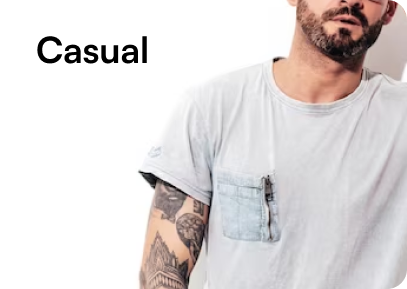
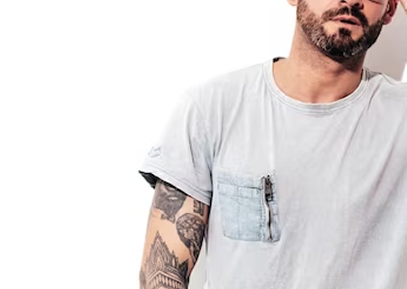
init

diff --git a/htdocs/assets/css/main.min.css b/htdocs/assets/css/main.min.css
@@ -1,1 +1,1 @@
-a,article,aside,b,body,caption,dd,div,dl,dt,em,figcaption,figure,footer,form,h1,h2,h3,h4,h5,h6,header,html,i,iframe,img,label,li,nav,ol,p,pre,section,small,span,strong,sub,sup,table,tbody,td,tfoot,th,thead,tr,ul,var,video{margin:0;padding:0;border:0;outline:0;vertical-align:baseline;background:0 0;box-sizing:border-box}body,html{-webkit-text-size-adjust:100%;-moz-text-size-adjust:100%;text-size-adjust:100%}dl,dl dd p,dl dd ul,dl h2,dl h3,dl ol,dl table,h1,h2,h3,h4,h5,h6,input,ol,ol li dl,ol li p,ol ul,p,table,table p,table table,table ul,textarea,ul,ul li dl,ul li p,ul ol,ul table,ul ul{font-size:100%}article,aside,details,figcaption,footer,header,nav,section{display:block}nav ul,ol li,ul li{list-style:none}table{border-collapse:collapse;border-spacing:0;line-height:1.4}em,strong{font-weight:700}input,select{vertical-align:middle}button:focus{outline:0}a:hover,button:hover{opacity:.7;cursor:pointer}button{line-height:0}img{max-width:100%;height:auto}a,a:link,a:visited{color:inherit;text-decoration:none;cursor:pointer}input:focus-visible{outline:0;box-shadow:none;border-color:inherit}figure{margin:0;padding:0}small{all:unset}@font-face{font-family:Satoshi;src:url(../fonts/satoshi/Satoshi-Regular.woff2) format("woff2"),url(../fonts/satoshi/Satoshi-Regular.woff) format("woff"),url(../fonts/satoshi/Satoshi-Regular.ttf) format("truetype");font-weight:400;font-style:normal;font-display:swap}@font-face{font-family:Satoshi;src:url(../fonts/satoshi/Satoshi-Medium.woff2) format("woff2"),url(../fonts/satoshi/Satoshi-Medium.woff) format("woff"),url(../fonts/satoshi/Satoshi-Medium.ttf) format("truetype");font-weight:500;font-style:normal;font-display:swap}@font-face{font-family:Satoshi;src:url(../fonts/satoshi/Satoshi-Bold.woff2) format("woff2"),url(../fonts/satoshi/Satoshi-Bold.woff) format("woff"),url(../fonts/satoshi/Satoshi-Bold.ttf) format("truetype");font-weight:700;font-style:normal;font-display:swap}@font-face{font-family:"Integral CF";src:url(../fonts/integral-cf/Fontspring-DEMO-integralcf-bold.otf) format("opentype");font-weight:700;font-style:normal;font-display:swap}body{color:#000;font-family:Satoshi,sans-serif;font-size:16px;line-height:1.247;font-weight:400}h1,h2{font-family:"Integral CF",sans-serif;font-weight:700}.btn{display:inline-block;background-color:#000;color:#fff!important;font-weight:500;line-height:1.375;padding:15px 67.5px;border-radius:62px;transition:background-color .3s;text-decoration:none}.btn:hover{opacity:.7;background-color:#333}@media (min-width:550px) and (max-width:767px){.btn{width:30%!important}}.inner{max-width:1240px;margin:0 auto}@media (min-width:1280px){.inner{padding-left:0;padding-right:0}}@media (max-width:1279px) and (min-width:768px){.inner{padding-left:32px;padding-right:32px}}@media (max-width:768px){.btn{width:100%;text-align:center;font-size:16px}.inner{padding-left:4.102564102%;padding-right:4.102564102%}}.signup{padding:11px 0;width:100%;display:flex;flex-direction:row;align-items:center;justify-content:center;background-color:#000;color:#fff}.signup__wrap{display:flex;align-items:center;justify-content:center;flex:1}.signup__text{line-height:1.3571428571;font-size:14px}@media (max-width:768px){.signup{padding:9px 0}.signup__text{font-size:12px}}.signup__link{display:inline-block;color:#fff;text-decoration:underline!important;font-weight:500}.signup__link:hover{opacity:.8}.signup__content{display:flex;justify-content:space-between;align-items:center;width:100%}.signup__close{background:0 0;border:none;cursor:pointer;padding:0;height:20px}.signup__close:hover{opacity:.8}@media (max-width:768px){.signup__close{display:none}}.header{padding-top:24px;padding-bottom:24px}@media screen and (max-width:768pxpx){.header{padding:calc(.0390625 * 100%) calc(.03125 * 100%)}}@media screen and (max-width:390pxpx){.header{padding:calc(.0512820513 * 100%) calc(.041025641 * 100%)}}.header__wrapper{display:flex;align-items:center}.header__menu-mobile{display:none;background:0 0;border:none;padding:0;margin-right:calc(.0446927374 * 100%);cursor:pointer}.header__menu-mobile:hover{opacity:.7}.header__logo{font-family:"Integral CF",sans-serif;font-weight:700;font-size:32px;line-height:.6875;color:#000}@media (max-width:768px){.header__wrapper{align-items:self-start}.header__menu-mobile{display:block}.header__logo{font-size:25px;line-height:.72}}.header__menu{margin-top:8px;margin-left:calc(.0322580645 * 100%);display:flex;list-style:none;gap:24px}@media (max-width:768px){.header__menu{display:none;margin-top:0}}@media (min-width:769px) and (max-width:1239px){.header__menu{gap:7.476635514%}}.header__menu-item{display:flex;align-items:center;gap:4px;transition:color .3s}.header__menu-item:hover{cursor:pointer;opacity:.7}.header__menu-link{color:#000;text-decoration:none;font-size:16px;line-height:1.375}.header__search{position:relative;display:flex;align-items:center;flex:1;border-radius:62px;background-color:#f0f0f0;padding:calc(.0096774194 * 100%) calc(.0129032258 * 100%);margin:0 calc(.0322580645 * 100%)}.header__search-icon{height:24px}.header__search-input{text-overflow:ellipsis;background-color:#f0f0f0;border:none;font-size:16px;padding:0;line-height:1;flex:1;font-family:Satoshi,sans-serif;min-width:0;margin-left:calc(.0208695652 * 100%)}.header__search-input::-moz-placeholder{color:rgba(0,0,0,.4)}.header__search-input::placeholder{color:rgba(0,0,0,.4)}.header__search-input:focus{outline:0}.header__search-mobile{display:none}@media (max-width:768px){.header__search{display:none}.header__search-mobile{display:flex;align-items:center;justify-content:center;color:#000}.header__search-mobile:hover{opacity:.7}}.header__actions-redirect{display:flex;align-items:center;margin-left:auto;gap:14px}.header__cart,.header__profile{display:flex;align-items:center;justify-content:center;color:#000}.header__cart:hover,.header__profile:hover{opacity:.7}.baner{background-color:#f2f0f1}.baner__background{padding:103px 0 116px;max-width:1440px;margin:0 auto;background-image:url(../images/hero.jpg);background-size:cover;background-position:center;background-repeat:no-repeat;position:relative}@media (max-width:768px){.header__actions-redirect{gap:12px}.baner .inner{padding-left:0;padding-right:0}.baner__background{padding:40px 4.102564102% 0;background-image:none}}.baner__background-mobile{background-position:bottom;background-repeat:no-repeat;display:none;width:100%;max-width:390px;margin:0 auto;aspect-ratio:390/448;background-image:url(../images/bg-sp.png);background-size:contain}.baner__content{flex:1}.baner__title{font-size:64px;line-height:1;margin-bottom:32px}@media (max-width:768px){.baner__background-mobile{display:block;margin-top:-6px;position:relative}.baner__title{margin-bottom:20px;font-size:36px;line-height:1.0588235294}}.baner__description{margin-bottom:32px;color:rgba(0,0,0,.6);line-height:1.375;max-width:calc(.439516129 * 100%);font-size:16px}.baner .btn{margin-bottom:48px;padding:15px calc(.0544354839 * 100%)}.baner__wrap-info{display:flex;position:relative;z-index:1}@media (max-width:768px){.baner__description{font-size:14px;max-width:100%;margin-bottom:24px;line-height:1.4285714286}.baner .btn{margin-bottom:22px}.baner__wrap-info{flex-wrap:wrap;justify-content:center}}.baner__divider{width:1px;background-color:rgba(0,0,0,.1);margin:0 calc(.0258064516 * 100%)}.baner__info{display:flex;flex-direction:column}.baner__info-number{font-size:40px;font-weight:700;line-height:1.35;color:#000}@media (max-width:768px){.baner__divider{margin:0 calc(.0768156425 * 100%)}.baner__divider:nth-child(4){display:none}.baner__info-number{line-height:1.5;font-size:24px}}.baner__info-text{font-size:16px;line-height:1.375;color:rgba(0,0,0,.6);margin-top:-2px}.baner__star{position:absolute;z-index:1}.baner__star-desktop{display:block}.baner__star-mobile{display:none}.baner__star--1{width:calc(.0722222222 * 100%);top:calc(.1297134238 * 100%);right:calc(.05625 * 100%)}@media (max-width:768px){.baner__info-text{font-size:12px;margin-top:-6px;line-height:1.8333333333}.baner__info:nth-child(5){width:100%;text-align:center;margin-top:12px}.baner__star-desktop{display:none}.baner__star-mobile{display:block}.baner__star--1{width:calc(.1948717949 * 100%);top:calc(.0892857143 * 100%);right:calc(.0538461538 * 100%)}}.baner__star--2{width:calc(.0388888889 * 100%);bottom:calc(.467571644 * 100%);right:calc(.4402777778 * 100%)}.brands{background-color:#000;padding:44px 0}.brands__row{display:flex;align-items:center;justify-content:space-between}.brands__row-mobile{display:none}@media (max-width:768px){.baner__star--2{width:calc(.1128205128 * 100%);top:calc(.3058035714 * 100%);left:calc(.0692307692 * 100%);right:0}.brands{padding:39px 0}.brands__row{justify-content:center}.brands__row-mobile{display:flex;padding:0 calc(.0666666667 * 100%);margin-top:30px}}.brands__item{transition:opacity .3s;margin:0 calc(.0166666667 * 100%)}.brands__item:first-child{margin-left:0}.brands__item:last-child{margin-right:0}.brands__item:hover{cursor:pointer;opacity:.7}@media (max-width:768px){.brands__item{margin:0 calc(.0354166667 * 100%)}.brands__item:nth-child(3){margin-right:0}.brands__item:nth-child(4),.brands__item:nth-child(5){display:none}.products .inner{padding-right:0}}.products__border{margin-top:64px}@media (max-width:768px){.products__border{margin-top:0;padding-top:40px;margin-left:4.102564102%;margin-right:4.102564102%;border-top:1px solid rgba(0,0,0,.1019607843)}}.products__stat-text{line-height:1.3571428571}.products__stat-text small{color:rgba(0,0,0,.6)}@media (min-width:1240px){.products__stat-text{margin-left:13px}}@media (min-width:769px) and (max-width:1239px){.products__stat-text{margin-left:4.406779661%}}@media (max-width:768px){.products__stat-text{font-size:12px!important;line-height:1.3333333333}}.products__price-discount{font-weight:700;font-size:24px;line-height:1.3333333333;color:rgba(0,0,0,.4);text-decoration:line-through}@media (max-width:768px){.products__price-discount{font-size:20px;line-height:1.35}}.products__price-percent{display:flex;align-items:center;background-color:rgba(255,51,51,.1019607843);padding:6px 13px;font-weight:500;font-size:12px;line-height:1.3333333333;color:#f33;border-radius:62px}@media (max-width:768px){.products__price-percent{font-size:10px;line-height:1;padding:3px 8px;height:21px}}.products__stat-text{font-size:14px;margin-left:13px;color:#000}.products__selling{padding-top:55px;padding-bottom:80px}@media (max-width:768px){.products__selling{padding-top:32px;padding-bottom:50px}}.products__selling .products__list{margin-top:0}.products__arrivals{padding-top:72px;padding-bottom:64px;border-bottom:1px solid rgba(0,0,0,.1019607843)}.products__item{text-decoration:none}.products__item figure img{display:block}.products__items-clothes{width:25%;box-sizing:border-box}.products__list{margin-top:55px;display:flex}@media (max-width:768px){.products__arrivals{padding-top:50px;padding-bottom:40px;border-bottom:unset}.products__items-clothes{width:50%}.products__list{margin-top:32px}}.products__name{text-transform:capitalize;margin-top:16px;margin-bottom:8px;font-family:Satoshi,sans-serif;font-weight:700;color:#000;font-size:20px;line-height:1.35}@media (max-width:768px){.products__name{font-size:16px;line-height:1.375;margin-top:10px;margin-bottom:4px}}@media (min-width:769px) and (max-width:1024px){.products__name{min-height:50px}}.products_price{align-items:center;display:flex;margin-top:8px;font-family:Satoshi,sans-serif;font-weight:700;font-size:24px;color:#000;line-height:1.3333333333;gap:10px;flex-wrap:wrap}@media (max-width:768px){.products_price{margin-top:4px;font-size:20px;line-height:1.35}}.products__view-all{border:1px solid rgba(0,0,0,.1019607843);font-family:Satoshi,sans-serif;font-weight:500;font-size:16px;color:#000;padding-left:calc(.064516129 * 100%);padding-right:calc(.064516129 * 100%);padding-top:15px;padding-bottom:15px;border-radius:62px;background-color:#fff;display:block;margin:36px auto 0;line-height:1.375}@media (min-width:550px) and (max-width:767px){.products__view-all{width:30%!important;margin-right:auto!important}}.browes__bg{background-color:#f0f0f0;border-radius:40px;padding:70px calc(.0516129032 * 100%) 76px}.browes__row{display:flex;gap:calc(.0161290323 * 100%)}@media (min-width:769px){.browes__row{height:289px}}@media (max-width:768px){.products__view-all{width:95.897435898%;margin-top:24px;font-size:14px;line-height:1.3571428571;margin-right:4.102564102%}.browes__bg{padding:40px calc(.0670391061 * 100%) 27px}.browes__row{display:flex;flex-direction:column}.browes__row figure{width:100%;height:190px}.browes__row img{width:100%}}.browes__row img{height:100%}.browes__row:first-of-type{margin-bottom:20px}.browes__title{margin-bottom:64px}.footer{margin-top:80px}@media (max-width:768px){.browes__title{margin-bottom:28px}.footer{margin-top:50px}.footer__menu-items-list{padding-top:24px}}.footer__social{display:flex;align-items:center;gap:12px;margin-top:35px}@media (max-width:768px){.footer__social{margin-top:20px}}.footer__info-text{margin-top:25px;font-size:14px;line-height:1.57;color:rgba(0,0,0,.6)}.footer__info{margin-bottom:15px;max-width:248px}.footer__logo{font-size:33px}.footer__subscribe{display:flex;align-items:center;justify-content:space-between;background-color:#000;border-radius:20px;padding:36px calc(.0516129032 * 100%)}@media (max-width:768px){.footer__info-text{margin-top:14px;line-height:1.4285714286}.footer__info{max-width:100%;margin-bottom:0}.footer__logo{font-size:29px}.footer__subscribe{flex-direction:column;padding:32px calc(.0670391061 * 100%) 28px}}.footer__subscribe-text{font-family:"Integral CF",sans-serif;font-weight:700;font-size:40px;line-height:1.125;color:#fff}@media (max-width:768px){.footer__subscribe-text{font-size:32px;line-height:1.09375}}@media (min-width:1240px){.footer__subscribe-text{width:calc(.4955035971 * 100%)}}@media (min-width:769px) and (max-width:1239px){.footer__subscribe-text{width:49.550359712%}}.footer__email-input{background-color:#fff;border:none;padding:0;flex:1;font-family:Satoshi,sans-serif;min-width:0;margin-left:12px;font-size:16px;text-overflow:ellipsis;line-height:1.375}.footer__email-input::-moz-placeholder{font-size:16px;line-height:1.375;color:rgba(0,0,0,.4)}.footer__email-input::placeholder{font-size:16px;line-height:1.375;color:rgba(0,0,0,.4)}.footer__first{position:relative}.footer__first-background{background-color:#f0f0f0;position:absolute;bottom:0;height:50%;width:100%;z-index:-1}.footer__second{padding-top:50px;background-color:#f0f0f0;border-bottom:1px solid rgba(0,0,0,.1019607843)}@media (max-width:768px){.footer__email-input::-moz-placeholder{font-size:14px;line-height:1.3571428571}.footer__email-input::placeholder{font-size:14px;line-height:1.3571428571}.footer__second{padding-top:32px;padding-bottom:77px}}.footer__email{max-height:48px;position:relative;display:flex;align-items:center;flex:1;border-radius:62px;background-color:#fff;padding:12px 16px}@media (min-width:769px){.footer__email{width:calc(.6221033868 * 100%)}}.footer__subscribe-button{margin-top:14px;font-weight:500;font-size:16px;color:#000;height:46px;border-radius:62px;line-height:1.375}@media (max-width:768px){.footer__subscribe-button{font-size:14px;line-height:1.3571428571}}@media (min-width:1240px){.footer__subscribe-button{width:349px}}@media (min-width:769px) and (max-width:1239px){.footer__subscribe-button{width:62.21033868%}}.footer__items{font-size:16px;line-height:1.1875;color:rgba(0,0,0,.6)}.footer__right{flex-direction:column;display:flex;align-items:end}@media (max-width:768px){.footer__items{font-size:14px;line-height:1.3571428571}.footer__right{width:100%;margin-top:32px;align-items:unset}.footer__copy{margin-bottom:16px}}@media (min-width:1240px){.footer__right{width:calc(.5044964029 * 100%)}.footer__wrap-menu-list{gap:113px}}@media (min-width:769px) and (max-width:1239px){.footer__right{width:50.449640288%}}.footer__copy{color:rgba(0,0,0,.6);font-size:14px}.footer__copy-payment{margin-top:25px;margin-bottom:82px;display:flex;justify-content:space-between;align-items:center}@media (max-width:768px){.footer__copy-payment{margin-top:16px;margin-bottom:0;display:flex;flex-direction:column}}.footer__payment{display:flex}.footer__wrap-all{display:flex;flex-wrap:wrap;justify-content:space-between;padding-bottom:50px;border-bottom:1px solid rgba(0,0,0,.1019607843)}.footer__wrap-menu-list{width:72.419354838%;display:flex;justify-content:space-between}@media (min-width:769px) and (max-width:1239px){.footer__wrap-menu-list{gap:13.363028953%}}.footer__menu-items-text{font-weight:500;font-size:16px;line-height:1.125;letter-spacing:3px;text-transform:uppercase;margin-bottom:26px}@media (max-width:768px){.footer__wrap-all{padding-bottom:40px}.footer__wrap-menu-list{width:100%;display:grid;grid-template-columns:repeat(2,minmax(0,1fr))}.footer__menu-items-text{font-size:14px;line-height:1.2857142857;margin-bottom:16px}}.footer__list-items{display:flex;flex-direction:column;gap:25px}.reviews{display:flex;gap:20px}.reviews__feedback{font-size:16px;line-height:1.375;color:rgba(0,0,0,.6);margin-top:12px}@media (max-width:768px){.reviews{gap:10px}.reviews__feedback{font-size:14px;line-height:1.4285714286;margin-top:8px}.reviews__list{padding-left:4.102564102%;padding-right:4.102564102%}}.reviews__next-pre{display:flex;gap:16px}.reviews__next-pre button{all:unset;display:inline-block;cursor:pointer}.reviews__header{margin-bottom:40px;margin-top:80px;display:flex;justify-content:space-between;align-items:center}.reviews__item{border:1px solid rgba(0,0,0,.1019607843);border-radius:20px;min-width:400px;padding:28px 32px 50px}@media (max-width:768px){.reviews__header{margin-bottom:24px;margin-top:50px}.reviews__item{padding:24px!important;min-width:auto}}.reviews__name{display:flex;align-items:center;font-weight:700;font-size:20px;line-height:1.1;color:#000;gap:6px;margin-top:15px}.reviews__title{text-align:left!important}.title{text-align:center;font-size:48px;line-height:1.2083333333;text-transform:capitalize}@media (max-width:768px){.reviews__name{margin-top:12px}.title{font-size:32px;line-height:1.1875}}.checked{color:#ffc633}
+a,article,aside,b,body,caption,dd,div,dl,dt,em,figcaption,figure,footer,form,h1,h2,h3,h4,h5,h6,header,html,i,iframe,img,label,li,nav,ol,p,pre,section,small,span,strong,sub,sup,table,tbody,td,tfoot,th,thead,tr,ul,var,video{margin:0;padding:0;border:0;outline:0;vertical-align:baseline;background:0 0;box-sizing:border-box}body,html{-webkit-text-size-adjust:100%;-moz-text-size-adjust:100%;text-size-adjust:100%}dl,dl dd p,dl dd ul,dl h2,dl h3,dl ol,dl table,h1,h2,h3,h4,h5,h6,input,ol,ol li dl,ol li p,ol ul,p,table,table p,table table,table ul,textarea,ul,ul li dl,ul li p,ul ol,ul table,ul ul{font-size:100%}article,aside,details,figcaption,footer,header,nav,section{display:block}nav ul,ol li,ul li{list-style:none}table{border-collapse:collapse;border-spacing:0;line-height:1.4}em,strong{font-weight:700}input,select{vertical-align:middle}button:focus{outline:0}a:hover,button:hover{opacity:.7;cursor:pointer}button{line-height:0}img{max-width:100%;height:auto}a,a:link,a:visited{color:inherit;text-decoration:none;cursor:pointer}input:focus-visible{outline:0;box-shadow:none;border-color:inherit}figure{margin:0;padding:0}small{all:unset}@font-face{font-family:Satoshi;src:url(../fonts/satoshi/Satoshi-Regular.woff2) format("woff2"),url(../fonts/satoshi/Satoshi-Regular.woff) format("woff"),url(../fonts/satoshi/Satoshi-Regular.ttf) format("truetype");font-weight:400;font-style:normal;font-display:swap}@font-face{font-family:Satoshi;src:url(../fonts/satoshi/Satoshi-Medium.woff2) format("woff2"),url(../fonts/satoshi/Satoshi-Medium.woff) format("woff"),url(../fonts/satoshi/Satoshi-Medium.ttf) format("truetype");font-weight:500;font-style:normal;font-display:swap}@font-face{font-family:Satoshi;src:url(../fonts/satoshi/Satoshi-Bold.woff2) format("woff2"),url(../fonts/satoshi/Satoshi-Bold.woff) format("woff"),url(../fonts/satoshi/Satoshi-Bold.ttf) format("truetype");font-weight:700;font-style:normal;font-display:swap}@font-face{font-family:"Integral CF";src:url(../fonts/integral-cf/Fontspring-DEMO-integralcf-bold.otf) format("opentype");font-weight:700;font-style:normal;font-display:swap}body{color:#000;font-family:Satoshi,sans-serif;font-size:16px;line-height:1.247;font-weight:400}h1,h2{font-family:"Integral CF",sans-serif;font-weight:700}.btn{display:inline-block;background-color:#000;color:#fff!important;font-weight:500;line-height:1.375;padding:15px 67.5px;border-radius:62px;transition:background-color .3s;text-decoration:none}.btn:hover{opacity:.7;background-color:#333}@media (min-width:550px) and (max-width:767px){.btn{width:30%!important}}.sortable-handler{touch-action:none}.inner{max-width:1240px;margin:0 auto}@media (min-width:1280px){.inner{padding-left:0;padding-right:0}}@media (max-width:1279px) and (min-width:768px){.inner{padding-left:32px;padding-right:32px}}@media (max-width:768px){.btn{width:100%;text-align:center;font-size:16px}.inner{padding-left:4.102564102%;padding-right:4.102564102%}}.signup{padding:11px 0;width:100%;display:flex;flex-direction:row;align-items:center;justify-content:center;background-color:#000;color:#fff}.signup__wrap{display:flex;align-items:center;justify-content:center;flex:1}.signup__text{line-height:1.3571428571;font-size:14px}@media (max-width:768px){.signup{padding:9px 0}.signup__text{font-size:12px}}.signup__link{display:inline-block;color:#fff;text-decoration:underline!important;font-weight:500}.signup__link:hover{opacity:.8}.signup__content{display:flex;justify-content:space-between;align-items:center;width:100%}.signup__close{background:0 0;border:none;cursor:pointer;padding:0;height:20px}.signup__close:hover{opacity:.8}@media (max-width:768px){.signup__close{display:none}}.header{padding-top:24px;padding-bottom:24px}@media screen and (max-width:768pxpx){.header{padding:calc(.0390625 * 100%) calc(.03125 * 100%)}}@media screen and (max-width:390pxpx){.header{padding:calc(.0512820513 * 100%) calc(.041025641 * 100%)}}.header__wrapper{display:flex;align-items:center}.header__menu-mobile{display:none;background:0 0;border:none;padding:0;margin-right:calc(.0446927374 * 100%);cursor:pointer}.header__menu-mobile:hover{opacity:.7}.header__logo{font-family:"Integral CF",sans-serif;font-weight:700;font-size:32px;line-height:.6875;color:#000}@media (max-width:768px){.header__wrapper{align-items:self-start}.header__menu-mobile{display:block}.header__logo{font-size:25px;line-height:.72}}.header__menu{margin-top:8px;margin-left:calc(.0322580645 * 100%);display:flex;list-style:none;gap:24px}@media (max-width:768px){.header__menu{display:none;margin-top:0}}@media (min-width:769px) and (max-width:1239px){.header__menu{gap:7.476635514%}}.header__menu-item{display:flex;align-items:center;gap:4px;transition:color .3s}.header__menu-item:hover{cursor:pointer;opacity:.7}.header__menu-link{color:#000;text-decoration:none;font-size:16px;line-height:1.375}.header__search{position:relative;display:flex;align-items:center;flex:1;border-radius:62px;background-color:#f0f0f0;padding:calc(.0096774194 * 100%) calc(.0129032258 * 100%);margin:0 calc(.0322580645 * 100%)}.header__search-icon{height:24px}.header__search-input{text-overflow:ellipsis;background-color:#f0f0f0;border:none;font-size:16px;padding:0;line-height:1;flex:1;font-family:Satoshi,sans-serif;min-width:0;margin-left:calc(.0208695652 * 100%)}.header__search-input::-moz-placeholder{color:rgba(0,0,0,.4)}.header__search-input::placeholder{color:rgba(0,0,0,.4)}.header__search-input:focus{outline:0}.header__search-mobile{display:none}@media (max-width:768px){.header__search{display:none}.header__search-mobile{display:flex;align-items:center;justify-content:center;color:#000}.header__search-mobile:hover{opacity:.7}}.header__actions-redirect{display:flex;align-items:center;margin-left:auto;gap:14px}.header__cart,.header__profile{display:flex;align-items:center;justify-content:center;color:#000}.header__cart:hover,.header__profile:hover{opacity:.7}.baner{background-color:#f2f0f1}.baner__background{padding:103px 0 116px;max-width:1440px;margin:0 auto;background-image:url(../images/hero.jpg);background-size:cover;background-position:center;background-repeat:no-repeat;position:relative}@media (max-width:768px){.header__actions-redirect{gap:12px}.baner .inner{padding-left:0;padding-right:0}.baner__background{padding:40px 4.102564102% 0;background-image:none}}.baner__background-mobile{background-position:bottom;background-repeat:no-repeat;display:none;width:100%;max-width:390px;margin:0 auto;aspect-ratio:390/448;background-image:url(../images/bg-sp.png);background-size:contain}.baner__content{flex:1}.baner__title{font-size:64px;line-height:1;margin-bottom:32px}@media (max-width:768px){.baner__background-mobile{display:block;margin-top:-6px;position:relative}.baner__title{margin-bottom:20px;font-size:36px;line-height:1.0588235294}}.baner__description{margin-bottom:32px;color:rgba(0,0,0,.6);line-height:1.375;max-width:calc(.439516129 * 100%);font-size:16px}.baner .btn{margin-bottom:48px;padding:15px calc(.0544354839 * 100%)}.baner__wrap-info{display:flex;position:relative;z-index:1}@media (max-width:768px){.baner__description{font-size:14px;max-width:100%;margin-bottom:24px;line-height:1.4285714286}.baner .btn{margin-bottom:22px}.baner__wrap-info{flex-wrap:wrap;justify-content:center}}.baner__divider{width:1px;background-color:rgba(0,0,0,.1);margin:0 calc(.0258064516 * 100%)}.baner__info{display:flex;flex-direction:column}.baner__info-number{font-size:40px;font-weight:700;line-height:1.35;color:#000}@media (max-width:768px){.baner__divider{margin:0 calc(.0768156425 * 100%)}.baner__divider:nth-child(4){display:none}.baner__info-number{line-height:1.5;font-size:24px}}.baner__info-text{font-size:16px;line-height:1.375;color:rgba(0,0,0,.6);margin-top:-2px}.baner__star{position:absolute;z-index:1}.baner__star-desktop{display:block}.baner__star-mobile{display:none}.baner__star--1{width:calc(.0722222222 * 100%);top:calc(.1297134238 * 100%);right:calc(.05625 * 100%)}@media (max-width:768px){.baner__info-text{font-size:12px;margin-top:-6px;line-height:1.8333333333}.baner__info:nth-child(5){width:100%;text-align:center;margin-top:12px}.baner__star-desktop{display:none}.baner__star-mobile{display:block}.baner__star--1{width:calc(.1948717949 * 100%);top:calc(.0892857143 * 100%);right:calc(.0538461538 * 100%)}}.baner__star--2{width:calc(.0388888889 * 100%);bottom:calc(.467571644 * 100%);right:calc(.4402777778 * 100%)}.brands{background-color:#000;padding:44px 0}.brands__row{display:flex;align-items:center;justify-content:space-between}.brands__row-mobile{display:none}@media (max-width:768px){.baner__star--2{width:calc(.1128205128 * 100%);top:calc(.3058035714 * 100%);left:calc(.0692307692 * 100%);right:0}.brands{padding:39px 0}.brands__row{justify-content:center}.brands__row-mobile{display:flex;padding:0 calc(.0666666667 * 100%);margin-top:30px}}.brands__item{transition:opacity .3s;margin:0 calc(.0166666667 * 100%)}.brands__item:first-child{margin-left:0}.brands__item:last-child{margin-right:0}.brands__item:hover{cursor:pointer;opacity:.7}@media (max-width:768px){.brands__item{margin:0 calc(.0347222222 * 100%)}.brands__item:nth-child(3){margin-right:0}.brands__item:nth-child(4),.brands__item:nth-child(5){display:none}.products .inner{padding-right:0}}.products__border{margin-top:64px}@media (max-width:768px){.products__border{margin-top:0;padding-top:40px;margin-left:4.102564102%;margin-right:4.102564102%;border-top:1px solid rgba(0,0,0,.1019607843)}}.products__stat-text{line-height:1.3571428571}.products__stat-text small{color:rgba(0,0,0,.6)}@media (min-width:1240px){.products__stat-text{margin-left:13px}}@media (min-width:769px) and (max-width:1239px){.products__stat-text{margin-left:4.406779661%}}@media (max-width:768px){.products__stat-text{font-size:12px!important;line-height:1.3333333333}}.products__price-discount{font-weight:700;font-size:24px;line-height:1.3333333333;color:rgba(0,0,0,.4);text-decoration:line-through}@media (max-width:768px){.products__price-discount{font-size:20px;line-height:1.35}}.products__price-percent{display:flex;align-items:center;background-color:rgba(255,51,51,.1019607843);padding:6px 13px;font-weight:500;font-size:12px;line-height:1.3333333333;color:#f33;border-radius:62px}@media (max-width:768px){.products__price-percent{font-size:10px;line-height:1;padding:3px 8px;height:21px}}.products__stat-text{font-size:14px;margin-left:13px;color:#000}.products__selling{padding-top:55px;padding-bottom:80px}@media (max-width:768px){.products__selling{padding-top:32px;padding-bottom:50px}}.products__selling .products__list{margin-top:0}.products__arrivals{padding-top:72px;padding-bottom:64px;border-bottom:1px solid rgba(0,0,0,.1019607843)}.products__item{text-decoration:none}.products__item figure img{display:block}.products__items-clothes{width:25%;box-sizing:border-box}.products__list{margin-top:55px;display:flex}@media (max-width:768px){.products__arrivals{padding-top:50px;padding-bottom:40px;border-bottom:unset}.products__items-clothes{width:50%}.products__list{margin-top:32px}}.products__name{text-transform:capitalize;margin-top:16px;margin-bottom:8px;font-family:Satoshi,sans-serif;font-weight:700;color:#000;font-size:20px;line-height:1.35}@media (max-width:768px){.products__name{font-size:16px;line-height:1.375;margin-top:10px;margin-bottom:4px}}@media (min-width:769px) and (max-width:1024px){.products__name{min-height:50px}}.products_price{align-items:center;display:flex;margin-top:8px;font-family:Satoshi,sans-serif;font-weight:700;font-size:24px;color:#000;line-height:1.3333333333;gap:10px;flex-wrap:wrap}@media (max-width:768px){.products_price{margin-top:4px;font-size:20px;line-height:1.35}}.products__view-all{border:1px solid rgba(0,0,0,.1019607843);font-family:Satoshi,sans-serif;font-weight:500;font-size:16px;color:#000;padding-left:calc(.064516129 * 100%);padding-right:calc(.064516129 * 100%);padding-top:15px;padding-bottom:15px;border-radius:62px;background-color:#fff;display:block;margin:36px auto 0;line-height:1.375}@media (min-width:550px) and (max-width:767px){.products__view-all{width:30%!important;margin-right:auto!important}}.browes__item-first{max-width:360px;background-image:url(/assets/images/Casual1.png)}@media (min-width:769px){.browes__item-first{max-width:260px}}@media (min-width:1024px){.browes__item-first{max-width:360px}}@media (min-width:1280px){.browes__item-first{max-width:407px}}@media (max-width:650px){.browes__item-first{max-width:100%}}.browes__item-second{max-width:684px;background-image:url(/assets/images/Casual2.png)}.browes__item-thrid{max-width:684px;background-image:url(/assets/images/Casual3.png)}.browes__item-fourth{max-width:360px;background-image:url(/assets/images/Casual4.png)}@media (min-width:769px){.browes__item-fourth{max-width:260px}.browes__row{height:289px}}@media (min-width:1024px){.browes__item-fourth{max-width:360px}}@media (min-width:1280px){.browes__item-fourth{max-width:407px}}.browes__bg{background-color:#f0f0f0;border-radius:40px;padding:70px calc(.0516129032 * 100%) 76px}@media (max-width:768px){.products__view-all{width:95.897435898%;margin-top:24px;font-size:14px;line-height:1.3571428571;margin-right:4.102564102%}.browes__bg{padding:40px calc(.0670391061 * 100%) 27px}}.browes__row{display:flex;gap:20px}.browes__row a{font-weight:700;font-size:36px;line-height:1.3611111111;color:#000;padding:25px 36px;width:100%;border-radius:20px;background-size:cover;background-position:center;background-repeat:no-repeat}@media (min-width:651px) and (max-width:768px){.browes__row{height:190px}}@media (max-width:650px){.browes__item-fourth{max-width:100%}.browes__row a{font-size:24px;line-height:1.3611111111;gap:16px;display:flex;flex-direction:column;padding:16px 24px;width:100%;height:190px}.browes__row{font-size:24px;line-height:1.3611111111;gap:10px;display:flex;flex-direction:column}}.browes__row img{height:100%}.browes__row:first-of-type{margin-bottom:20px}.browes__title{margin-bottom:64px}.footer{margin-top:80px}@media (max-width:768px){.browes__title{margin-bottom:28px}.footer{margin-top:50px}.footer__menu-items-list{padding-top:24px}}.footer__social{display:flex;align-items:center;gap:12px;margin-top:35px}@media (max-width:768px){.footer__social{margin-top:20px}}.footer__info-text{margin-top:25px;font-size:14px;line-height:1.57;color:rgba(0,0,0,.6)}.footer__info{margin-bottom:15px;max-width:248px}.footer__logo{font-size:33px}.footer__subscribe{display:flex;align-items:center;justify-content:space-between;background-color:#000;border-radius:20px;padding:36px calc(.0516129032 * 100%)}@media (max-width:768px){.footer__info-text{margin-top:14px;line-height:1.4285714286}.footer__info{max-width:100%;margin-bottom:0}.footer__logo{font-size:29px}.footer__subscribe{flex-direction:column;padding:32px calc(.0670391061 * 100%) 28px}}.footer__subscribe-text{font-family:"Integral CF",sans-serif;font-weight:700;font-size:40px;line-height:1.125;color:#fff}@media (max-width:768px){.footer__subscribe-text{font-size:32px;line-height:1.09375}}@media (min-width:1240px){.footer__subscribe-text{width:calc(.4955035971 * 100%)}}@media (min-width:769px) and (max-width:1239px){.footer__subscribe-text{width:49.550359712%}}.footer__email-input{background-color:#fff;border:none;padding:0;flex:1;font-family:Satoshi,sans-serif;min-width:0;margin-left:12px;font-size:16px;text-overflow:ellipsis;line-height:1.375}.footer__email-input::-moz-placeholder{font-size:16px;line-height:1.375;color:rgba(0,0,0,.4)}.footer__email-input::placeholder{font-size:16px;line-height:1.375;color:rgba(0,0,0,.4)}.footer__first{position:relative}.footer__first-background{background-color:#f0f0f0;position:absolute;bottom:0;height:50%;width:100%;z-index:-1}.footer__second{padding-top:50px;background-color:#f0f0f0;border-bottom:1px solid rgba(0,0,0,.1019607843)}@media (max-width:768px){.footer__email-input::-moz-placeholder{font-size:14px;line-height:1.3571428571}.footer__email-input::placeholder{font-size:14px;line-height:1.3571428571}.footer__second{padding-top:32px;padding-bottom:77px}}.footer__email{max-height:48px;position:relative;display:flex;align-items:center;flex:1;border-radius:62px;background-color:#fff;padding:12px 16px}@media (min-width:769px){.footer__email{width:calc(.6221033868 * 100%)}}.footer__subscribe-button{margin-top:14px;font-weight:500;font-size:16px;color:#000;height:46px;border-radius:62px;line-height:1.375}@media (max-width:768px){.footer__subscribe-button{font-size:14px;line-height:1.3571428571}}@media (min-width:1240px){.footer__subscribe-button{width:349px}}@media (min-width:769px) and (max-width:1239px){.footer__subscribe-button{width:62.21033868%}}.footer__items{font-size:16px;line-height:1.1875;color:rgba(0,0,0,.6)}.footer__right{flex-direction:column;display:flex;align-items:end}@media (max-width:768px){.footer__items{font-size:14px;line-height:1.3571428571}.footer__right{width:100%;margin-top:32px;align-items:unset}.footer__copy{margin-bottom:16px}}@media (min-width:1240px){.footer__right{width:calc(.5044964029 * 100%)}.footer__wrap-menu-list{gap:113px}}@media (min-width:769px) and (max-width:1239px){.footer__right{width:50.449640288%}}.footer__copy{color:rgba(0,0,0,.6);font-size:14px}.footer__copy-payment{margin-top:25px;margin-bottom:82px;display:flex;justify-content:space-between;align-items:center}@media (max-width:768px){.footer__copy-payment{margin-top:16px;margin-bottom:0;display:flex;flex-direction:column}}.footer__payment{display:flex}.footer__wrap-all{display:flex;flex-wrap:wrap;justify-content:space-between;padding-bottom:50px;border-bottom:1px solid rgba(0,0,0,.1019607843)}.footer__wrap-menu-list{width:72.419354838%;display:flex;justify-content:space-between}@media (min-width:769px) and (max-width:1239px){.footer__wrap-menu-list{gap:13.363028953%}}.footer__menu-items-text{font-weight:500;font-size:16px;line-height:1.125;letter-spacing:3px;text-transform:uppercase;margin-bottom:26px}@media (max-width:768px){.footer__wrap-all{padding-bottom:40px}.footer__wrap-menu-list{width:100%;display:grid;grid-template-columns:repeat(2,minmax(0,1fr))}.footer__menu-items-text{font-size:14px;line-height:1.2857142857;margin-bottom:16px}}.footer__list-items{display:flex;flex-direction:column;gap:25px}.reviews{display:flex;gap:20px}.reviews__feedback{font-size:16px;line-height:1.375;color:rgba(0,0,0,.6);margin-top:12px}@media (max-width:768px){.reviews{gap:10px}.reviews__feedback{font-size:14px;line-height:1.4285714286;margin-top:8px}.reviews__list{padding-left:4.102564102%;padding-right:4.102564102%}}.reviews__next-pre{display:flex;gap:16px}.reviews__next-pre button{all:unset;display:inline-block;cursor:pointer}.reviews__header{margin-bottom:40px;margin-top:80px;display:flex;justify-content:space-between;align-items:center}.reviews__item{border:1px solid rgba(0,0,0,.1019607843);border-radius:20px;min-width:400px;padding:28px 32px 50px}@media (max-width:768px){.reviews__header{margin-bottom:24px;margin-top:50px}.reviews__item{padding:24px!important;min-width:auto}}.reviews__name{display:flex;align-items:center;font-weight:700;font-size:20px;line-height:1.1;color:#000;gap:6px;margin-top:15px}.reviews__title{text-align:left!important}.title{text-align:center;font-size:48px;line-height:1.2083333333;text-transform:capitalize}@media (max-width:768px){.reviews__name{margin-top:12px}.title{font-size:32px;line-height:1.1875}}.checked{color:#ffc633}

diff --git a/src/assets/scss/main.scss b/src/assets/scss/main.scss
@@ -41,7 +41,9 @@ h2 {
     font-size: 16px;
   }
 }
-
+.sortable-handler {
+  touch-action: none;
+}
 
 .inner {
   max-width: 1240px;
@@ -275,13 +277,13 @@ h2 {
 }
 
 .baner {
+  background-color: #f2f0f1;
   .inner {
     @media (max-width: 768px) {
       padding-left: 0;
       padding-right: 0;
     }
   }
-  background-color: #f2f0f1;
   &__background {
     padding: 103px 0px 116px;
     max-width: $lg;
@@ -482,7 +484,7 @@ h2 {
     transition: opacity 0.3s ease;
     margin: 0 calc-percent(24, $lgi);
     @media (max-width: 768px) {
-      margin: 0 calc-percent(51 / 2, $bp - $padding-x-tl * 2);
+      margin: 0 calc-percent(25, $bp - $padding-x-tl * 2);
   
     }
 
@@ -687,6 +689,46 @@ h2 {
   }
 }
 .browes {
+  &__item-first {
+    max-width: 360px;
+    background-image: url(/assets/images/Casual1.png);
+    @media (min-width: 769px) {
+      max-width: 260px;
+    }
+    @media (min-width: 1024px) {
+      max-width: 360px;
+    }
+    @media (min-width: 1280px) {
+      max-width: 407px;
+    }
+    @media (max-width: 650px) {
+      max-width: 100%;
+    }
+  }
+  &__item-second {
+    max-width: 684px;
+    background-image: url(/assets/images/Casual2.png);
+  }
+  &__item-thrid {
+    max-width: 684px;
+    background-image: url(/assets/images/Casual3.png);
+  }
+  &__item-fourth {
+    max-width: 360px;
+    background-image: url(/assets/images/Casual4.png);
+    @media (min-width: 769px) {
+      max-width: 260px;
+    }
+    @media (min-width: 1024px) {
+      max-width: 360px;
+    }
+    @media (min-width: 1280px) {
+      max-width: 407px;
+    }
+    @media (max-width: 650px) {
+      max-width: 100%;
+    }
+  }
   &__bg {
     background-color: #F0F0F0;
     border-radius: 40px;
@@ -696,21 +738,46 @@ h2 {
     }
   }
   &__row {
+    a {
+      font-weight: 700;
+      font-size: 36px;
+      line-height: 1.36111111111;
+      color: #000000;
+      padding: 25px 36px;
+      width: 100%;
+      border-radius: 20px;
+      background-size: cover;
+      background-position: center;
+      background-repeat: no-repeat;
+      @media (max-width: 650px) {
+        font-size: 24px;
+        line-height: 1.36111111111;
+        width: 100%;
+        height: 190px;
+        gap: 16px;
+        display: flex;
+        flex-direction: column;
+        padding: 16px 24px;
+      }
+    }
     display: flex;
-    gap: calc-percent(20, $container-pc);
+    gap: 20px;
     @media (min-width: 769px) {
       height: 289px; 
     }
-    @media (max-width: 768px) {
-      display: flex;
-      flex-direction: column;
-      figure {
+    @media (min-width: 651px) and (max-width: 768px) {
+      height: 190px; 
+    }
+    @media (max-width: 650px) {
+      font-size: 24px;
+      line-height: 1.36111111111;
+      a {
         width: 100%;
         height: 190px;
       }
-      img {
-        width: 100%;
-      }
+      gap: 10px;
+      display: flex;
+      flex-direction: column;
     }
     img {
       height: 100%;

diff --git a/htdocs/index.html b/htdocs/index.html
@@ -286,28 +286,13 @@
           <div class="browes__bg">
             <h2 data-aos="fade-up" data-aos-duration="2000" data-aos-delay="500" data-aos-easing="ease-in-out" class="title browes__title">BROWSE BY dress STYLE</h2>
             <div class="browes__row">
-              <figure>
-                <a href="#">
-                  <img src="assets/images/Casual1.png" alt="Casual" >
-                </a>
-              </figure>
-              <figure>
-                <a href="#">
-                  <img src="assets/images/Casual2.png" alt="Casual" >
-                </a>
-              </figure>
+                <a href="#" class="browes__item-first">Casual</a>
+                <a href="#" class="browes__item-second">Formal</a>
             </div>
             <div class="browes__row">
-              <figure>
-                <a href="#">
-                  <img src="assets/images/Casual3.png" alt="Casual" >
+                <a href="#" class="browes__item-thrid">Party</a>
+                <a href="#" class="browes__item-fourth">Gym</a>
                 </a>
-              </figure>
-              <figure>
-                <a href="#">
-                  <img src="assets/images/Casual4.png" alt="Casual" >
-                </a>
-              </figure>
             </div>
           </div>
         </div>

diff --git a/webpack.config.js b/webpack.config.js
@@ -44,7 +44,7 @@ export default {
             directory: path.resolve(path.dirname(new URL(import.meta.url).pathname), "htdocs"),  // Thư mục chứa các file tĩnh
         },
         compress: true,  // Bật nén file
-        port: 3000,  // Cổng mà dev server sẽ chạy
+        port: 4000,  // Cổng mà dev server sẽ chạy
         open: true,  // Tự động mở trình duyệt khi bắt đầu dev server
         hot: true,   // Hỗ trợ hot module replacement
     },

diff --git a/gulpfile.js b/gulpfile.js
@@ -97,7 +97,7 @@ function serve(done) {
         ext: '.html',
       }),
     },
-    port: 3000,
+    port: 4000,
     open: true,
   });
   done();
